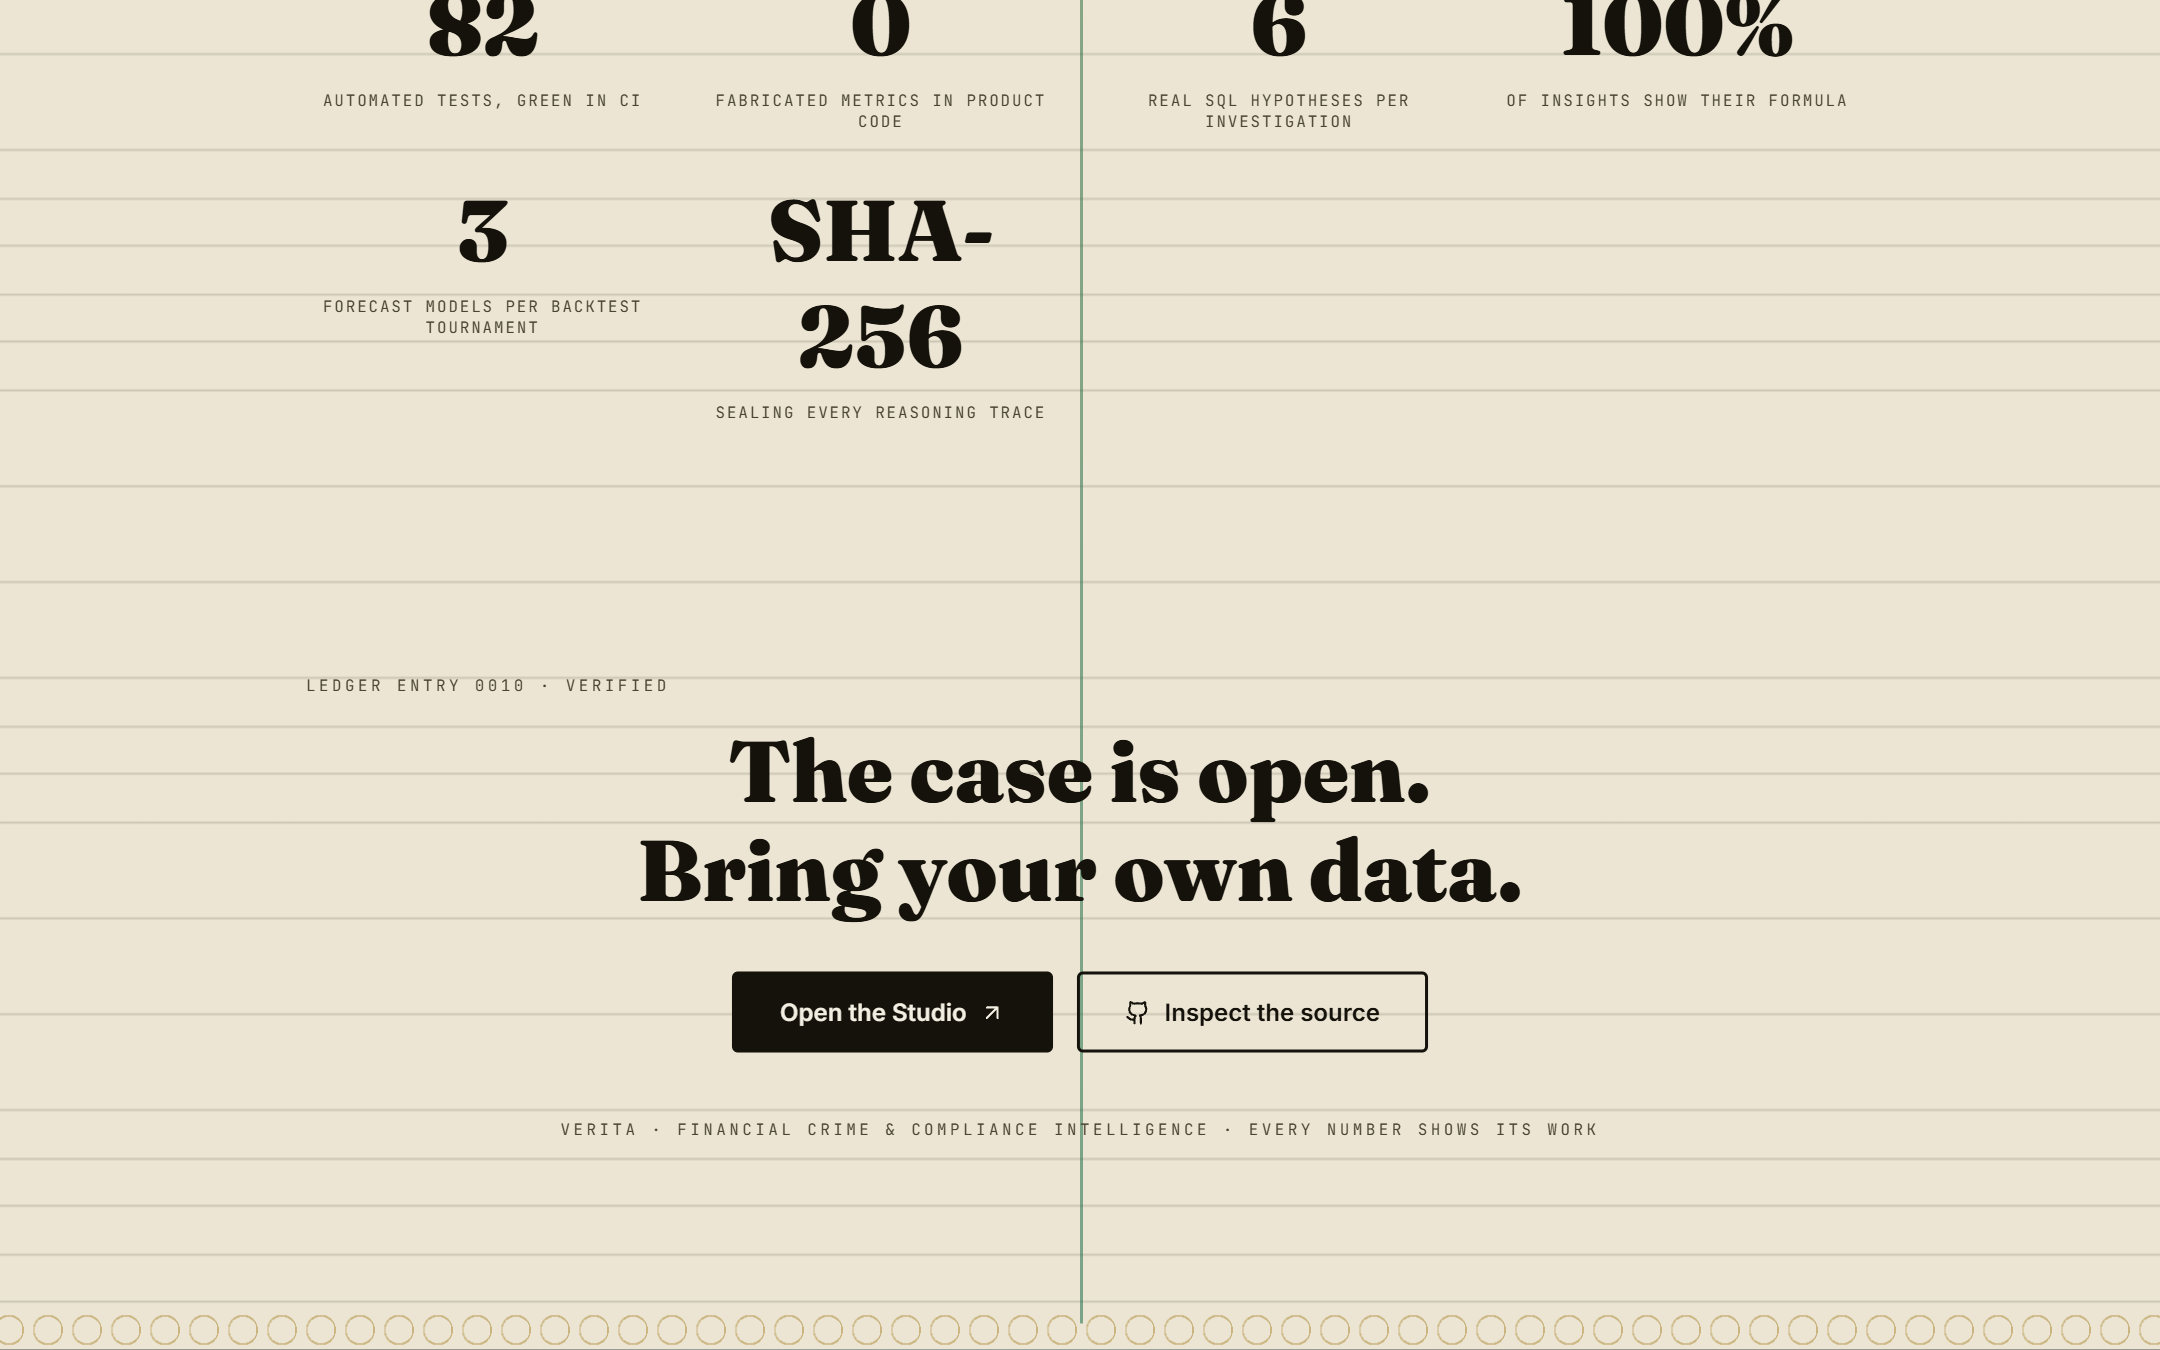
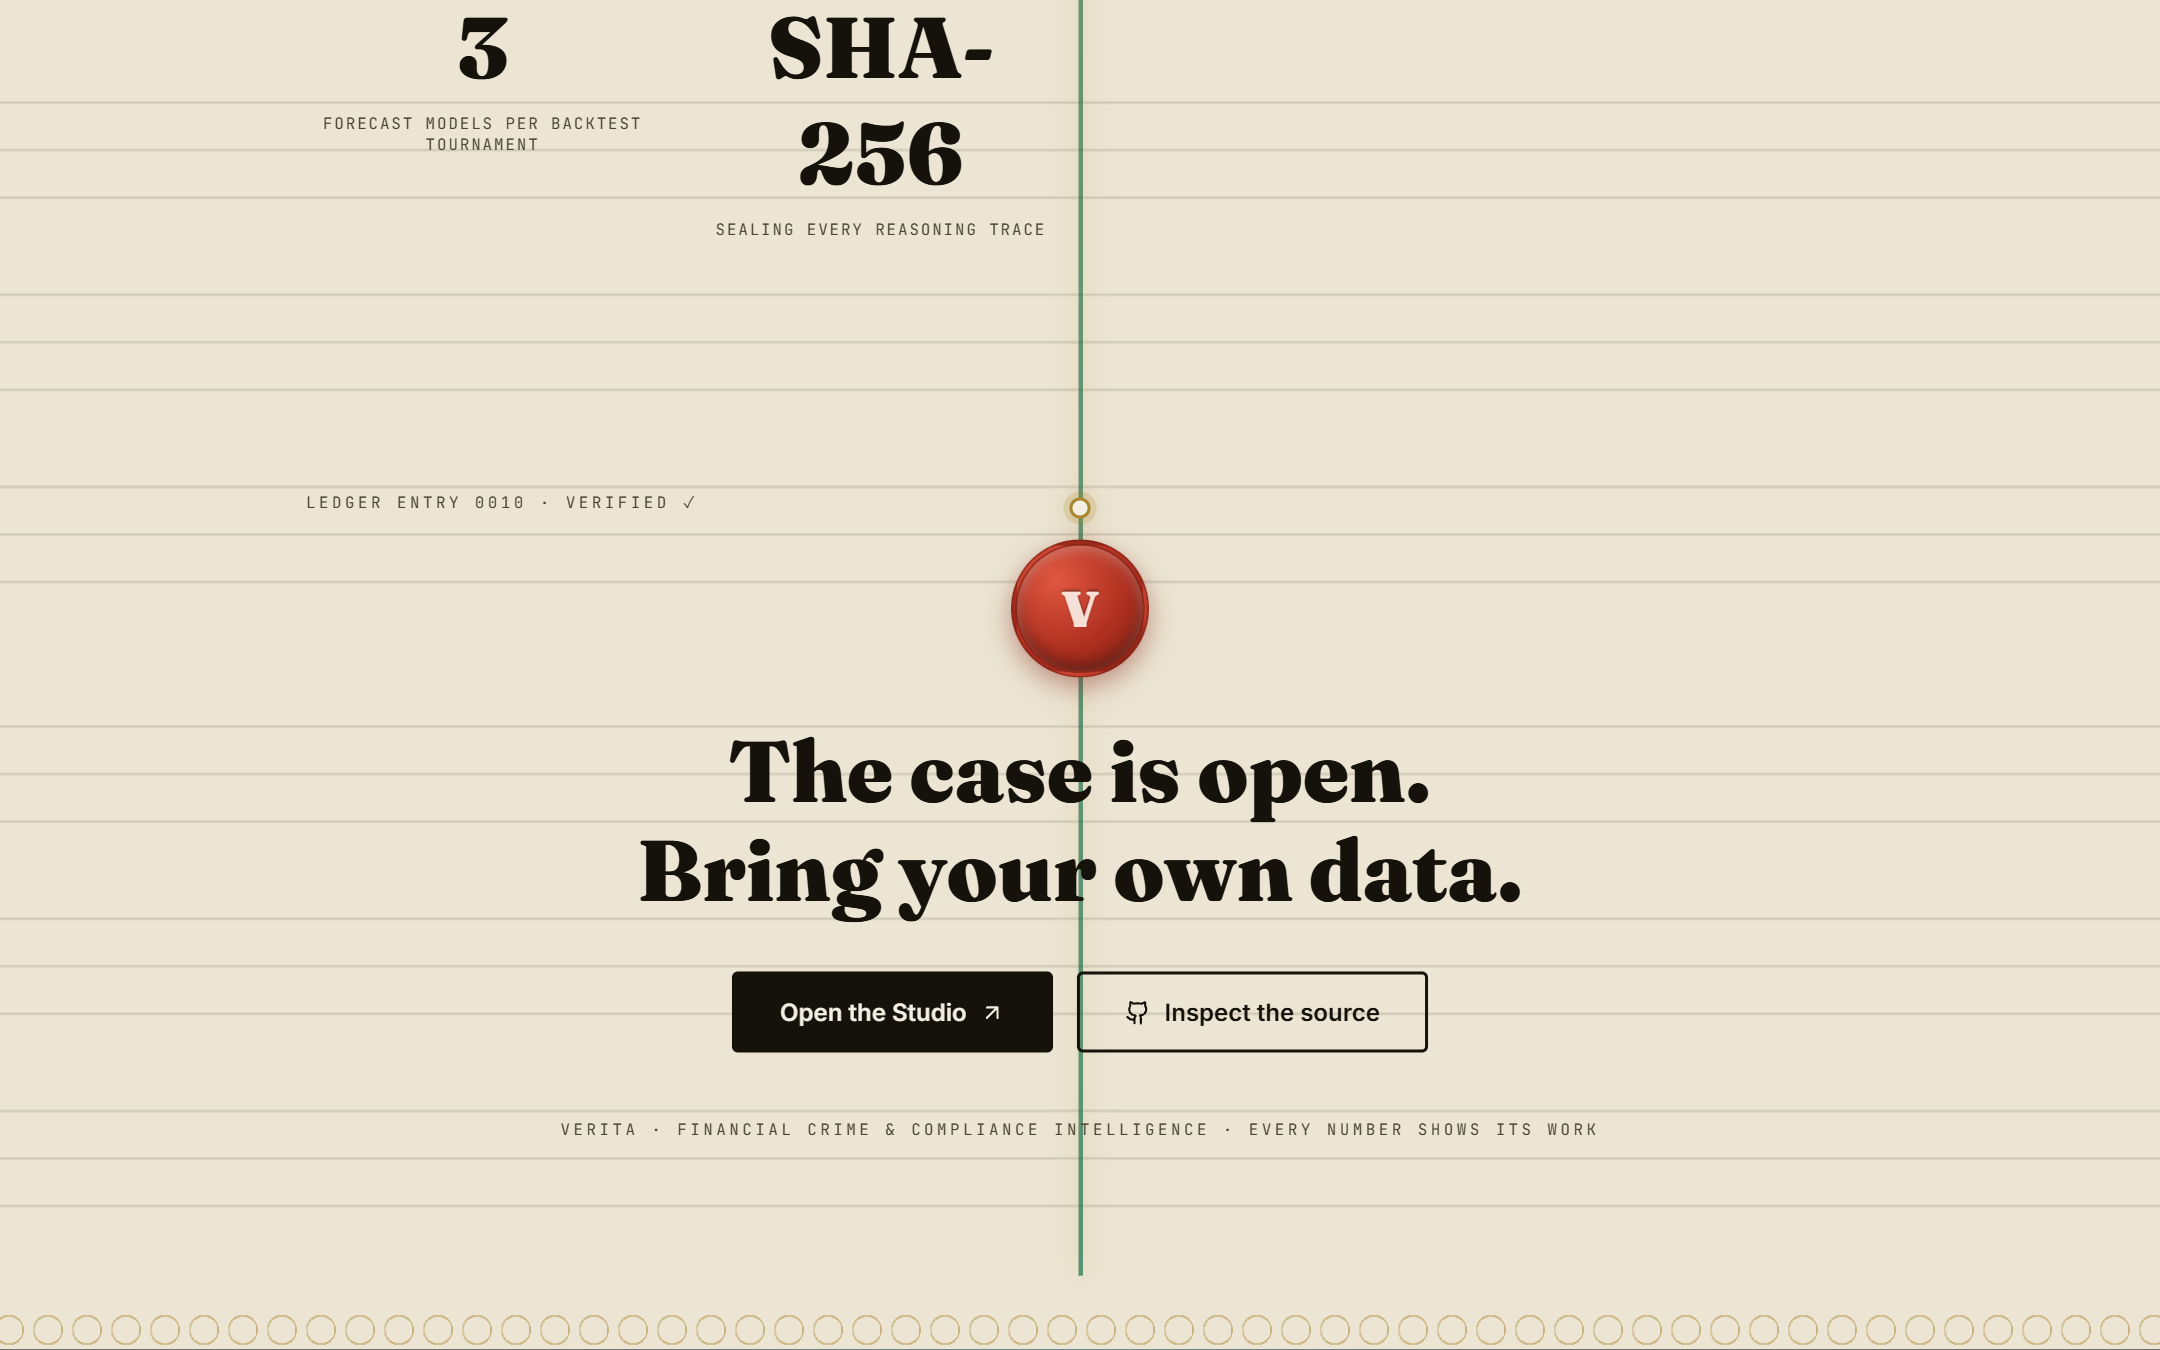
feat: ledger creativity pass — torn edge, stamp slams, sealing chain, wax seal
Seven creative upgrades to the Forensic Ledger landing: (1) torn-paper edge where the dark hero rips open into the ledger; (2) rubber stamps now SLAM in with a spring scale+rotate when scrolled into view; (3) chain link-nodes on the spine that seal gold as each entry verifies, with labels flipping PENDING -> VERIFIED; (4) thicker glowing chain thread; (5) banknote microtext security strips as section dividers; (6) faint fingerprint watermark behind the manifesto; (7) red wax seal 'V' (spring-stamped) on the closing CTA. Plus a hero scroll cue ('Scroll - the case file opens') so visitors discover Act II. All verified in browser: 10/10 nodes seal, zero console errors, tsc clean.

diff --git a/frontend/src/sections/LedgerSections.tsx b/frontend/src/sections/LedgerSections.tsx
@@ -5,8 +5,8 @@ import { ArrowUpRight, Github } from "lucide-react";
 
 /* ════════════════════════════════════════════════════════════════════
    FORENSIC LEDGER — the scroll story. The page itself behaves like a
-   hash chain: a thread draws down the spine as you scroll, linking each
-   section ("block"), and every section carries its ledger entry no.
+   hash chain: a thread draws down the spine, and each section is a
+   "block" whose chain-node seals gold as it verifies into view.
    ════════════════════════════════════════════════════════════════════ */
 
 const EXHIBITS = [
@@ -55,6 +55,27 @@ const NUMBERS = [
   { v: "SHA-256", k: "sealing every reasoning trace" },
 ];
 
+const MICROTEXT = Array(14).fill("VERITA · EVERY NUMBER SHOWS ITS WORK ·").join(" ");
+
+/* Rubber stamp that SLAMS in when scrolled into view. */
+function Stamp({ children, green, style }: { children: React.ReactNode; green?: boolean; style?: React.CSSProperties }) {
+  const ref = useRef<HTMLSpanElement>(null);
+  const inView = useInView(ref, { once: true, margin: "-60px" });
+  return (
+    <motion.span
+      ref={ref}
+      className={`stamp ${green ? "stamp--green" : ""}`}
+      style={{ display: "inline-block", ...style }}
+      initial={{ opacity: 0, scale: 2.6, rotate: green ? 14 : -16 }}
+      animate={inView ? { opacity: 1, scale: 1, rotate: green ? 3 : -4 } : {}}
+      transition={{ type: "spring", stiffness: 420, damping: 16, mass: 0.9 }}
+    >
+      {children}
+    </motion.span>
+  );
+}
+
+/* A ledger entry = one "block" in the chain; its node seals gold when verified. */
 function Entry({ no, children }: { no: string; children: React.ReactNode }) {
   const ref = useRef<HTMLDivElement>(null);
   const inView = useInView(ref, { once: true, margin: "-80px" });
@@ -62,7 +83,10 @@ function Entry({ no, children }: { no: string; children: React.ReactNode }) {
     <motion.div ref={ref} initial={{ opacity: 0, y: 36 }} animate={inView ? { opacity: 1, y: 0 } : {}}
       transition={{ duration: 0.7, ease: [0.22, 1, 0.36, 1] }}
       style={{ position: "relative", padding: "84px 24px", maxWidth: 1080, margin: "0 auto" }}>
-      <div className="ledger-label" style={{ marginBottom: 18 }}>LEDGER ENTRY {no} · VERIFIED</div>
+      <div className={`chain-node ${inView ? "sealed" : ""}`} aria-hidden />
+      <div className="ledger-label" style={{ marginBottom: 18 }}>
+        LEDGER ENTRY {no} · {inView ? "VERIFIED ✓" : "PENDING"}
+      </div>
       {children}
     </motion.div>
   );
@@ -74,6 +98,20 @@ function Redacted({ children }: { children: string }) {
   return <span ref={ref} className={`redact ${inView ? "lifted" : ""}`}>{children}</span>;
 }
 
+/* Faint fingerprint watermark (concentric arcs). */
+function Fingerprint() {
+  return (
+    <svg className="fingerprint" width="380" height="380" viewBox="0 0 380 380" aria-hidden>
+      {Array.from({ length: 13 }, (_, i) => (
+        <ellipse key={i} cx="190" cy="190" rx={20 + i * 13} ry={26 + i * 12}
+          fill="none" stroke="var(--ink)" strokeWidth="3.5"
+          strokeDasharray={`${40 + i * 22} ${12 + (i % 4) * 9}`}
+          transform={`rotate(${i * 7} 190 190)`} />
+      ))}
+    </svg>
+  );
+}
+
 export default function LedgerSections() {
   const navigate = useNavigate();
   const wrapRef = useRef<HTMLDivElement>(null);
@@ -81,19 +119,21 @@ export default function LedgerSections() {
   const thread = useSpring(scrollYProgress, { stiffness: 90, damping: 26 });
 
   return (
-    <div ref={wrapRef} className="ledger" style={{ position: "relative", zIndex: 3 }}>
+    <div ref={wrapRef} className="ledger torn-edge" style={{ position: "relative", zIndex: 3 }}>
       <div className="guilloche" />
 
       {/* the chain thread — draws down the spine as you scroll */}
       <motion.div aria-hidden style={{
-        position: "absolute", left: "50%", top: 0, bottom: 0, width: 2, transformOrigin: "top",
-        scaleY: thread, background: "linear-gradient(180deg, var(--foil-gold), var(--seal-green))", opacity: 0.55,
+        position: "absolute", left: "50%", top: 0, bottom: 0, width: 3, transformOrigin: "top",
+        scaleY: thread, marginLeft: -1.5,
+        background: "linear-gradient(180deg, var(--foil-gold), var(--seal-green))",
+        boxShadow: "0 0 14px rgba(168,132,44,0.5)", opacity: 0.7,
       }} />
 
       {/* §1 THE PROBLEM */}
       <Entry no="0001">
         <div style={{ textAlign: "center" }}>
-          <span className="stamp" style={{ fontSize: "0.7rem" }}>CASE FILE · VERITA</span>
+          <Stamp style={{ fontSize: "0.7rem" }}>CASE FILE · VERITA</Stamp>
           <h2 style={{ fontFamily: "var(--font-serif)", fontWeight: 900, fontSize: "clamp(2.2rem, 5.4vw, 4.4rem)", lineHeight: 1.12, marginTop: 26 }}>
             AI you can't <Redacted>audit</Redacted><br />is AI you can't <Redacted>use</Redacted>.
           </h2>
@@ -105,18 +145,21 @@ export default function LedgerSections() {
         </div>
       </Entry>
 
+      <div className="microtext">{MICROTEXT}</div>
+
       {/* §2 THE MANIFESTO */}
       <Entry no="0002">
-        <div style={{ borderTop: "3px solid var(--ink)", borderBottom: "3px solid var(--ink)", padding: "56px 8px", textAlign: "center" }}>
+        <div style={{ position: "relative", overflow: "hidden", borderTop: "3px solid var(--ink)", borderBottom: "3px solid var(--ink)", padding: "56px 8px", textAlign: "center" }}>
+          <Fingerprint />
           <div className="ledger-label" style={{ marginBottom: 16 }}>THE GLASS-BOX PRINCIPLE</div>
-          <h2 style={{ fontFamily: "var(--font-serif)", fontWeight: 700, fontStyle: "italic", fontSize: "clamp(1.6rem, 3.6vw, 2.7rem)", lineHeight: 1.35, maxWidth: 880, margin: "0 auto" }}>
+          <h2 style={{ fontFamily: "var(--font-serif)", fontWeight: 700, fontStyle: "italic", fontSize: "clamp(1.6rem, 3.6vw, 2.7rem)", lineHeight: 1.35, maxWidth: 880, margin: "0 auto", position: "relative" }}>
             "Every number shows its formula. Every forecast shows its backtest.
             Every agent decision shows its query — and the whole trace is sealed
             in a tamper-evident chain."
           </h2>
           <div style={{ marginTop: 28, display: "flex", gap: 14, justifyContent: "center", flexWrap: "wrap" }}>
-            <span className="stamp stamp--green" style={{ fontSize: "0.66rem" }}>NO BLACK BOXES</span>
-            <span className="stamp" style={{ fontSize: "0.66rem" }}>NO FABRICATED METRICS</span>
+            <Stamp green style={{ fontSize: "0.66rem" }}>NO BLACK BOXES</Stamp>
+            <Stamp style={{ fontSize: "0.66rem" }}>NO FABRICATED METRICS</Stamp>
           </div>
         </div>
       </Entry>
@@ -125,14 +168,15 @@ export default function LedgerSections() {
       {EXHIBITS.map((ex, i) => (
         <Entry key={ex.tag} no={`000${i + 3}`}>
           <div style={{ display: "flex", gap: 44, alignItems: "center", flexWrap: "wrap", flexDirection: i % 2 ? "row-reverse" : "row" }}>
-            <div className="exhibit-frame" style={{ flex: "1 1 440px", minWidth: 300, transform: `rotate(${i % 2 ? 1.2 : -1.2}deg)` }}>
+            <motion.div whileHover={{ rotate: 0, scale: 1.015 }} className="exhibit-frame"
+              style={{ flex: "1 1 440px", minWidth: 300, rotate: i % 2 ? 1.2 : -1.2 }}>
               <img src={ex.img} alt={ex.title} loading="lazy" />
               <div className="ledger-label" style={{ paddingTop: 9, display: "flex", justifyContent: "space-between" }}>
                 <span>{ex.tag}</span><span>VERITA / {String(i + 1).padStart(2, "0")}</span>
               </div>
-            </div>
+            </motion.div>
             <div style={{ flex: "1 1 340px", minWidth: 280 }}>
-              <span className={`stamp ${ex.green ? "stamp--green" : ""}`} style={{ fontSize: "0.62rem" }}>{ex.stamp}</span>
+              <Stamp green={ex.green} style={{ fontSize: "0.62rem" }}>{ex.stamp}</Stamp>
               <h3 style={{ fontFamily: "var(--font-serif)", fontWeight: 900, fontSize: "clamp(1.7rem, 3vw, 2.4rem)", lineHeight: 1.15, margin: "16px 0 14px" }}>{ex.title}</h3>
               <p style={{ fontSize: "1rem", lineHeight: 1.75, color: "var(--ink-soft)" }}>{ex.body}</p>
             </div>
@@ -140,10 +184,12 @@ export default function LedgerSections() {
         </Entry>
       ))}
 
+      <div className="microtext">{MICROTEXT}</div>
+
       {/* §4 THE PIPELINE */}
       <Entry no="0008">
         <div style={{ textAlign: "center", marginBottom: 40 }}>
-          <span className="stamp stamp--green" style={{ fontSize: "0.66rem" }}>CHAIN OF CUSTODY</span>
+          <Stamp green style={{ fontSize: "0.66rem" }}>CHAIN OF CUSTODY</Stamp>
           <h2 style={{ fontFamily: "var(--font-serif)", fontWeight: 900, fontSize: "clamp(2rem, 4.4vw, 3.4rem)", marginTop: 18 }}>
             How a file becomes evidence
           </h2>
@@ -174,9 +220,14 @@ export default function LedgerSections() {
         </div>
       </Entry>
 
-      {/* §6 CLOSING / CTA */}
+      {/* §6 CLOSING / CTA — sealed in wax */}
       <Entry no="0010">
         <div style={{ textAlign: "center", paddingBottom: 30 }}>
+          <motion.div initial={{ opacity: 0, scale: 2.2 }} whileInView={{ opacity: 1, scale: 1 }}
+            viewport={{ once: true, margin: "-60px" }} transition={{ type: "spring", stiffness: 320, damping: 18 }}
+            className="wax-seal" style={{ marginBottom: 30 }}>
+            V
+          </motion.div>
           <h2 style={{ fontFamily: "var(--font-serif)", fontWeight: 900, fontSize: "clamp(2rem, 4.6vw, 3.6rem)", lineHeight: 1.15 }}>
             The case is open.<br />Bring your own data.
           </h2>

diff --git a/frontend/src/index.css b/frontend/src/index.css
@@ -259,6 +259,84 @@ body {
   color: var(--ink-soft);
 }
 
+/* torn-paper top edge — the dark world rips open into the ledger */
+.torn-edge {
+  clip-path: polygon(
+    0 18px, 3% 6px, 7% 16px, 11% 4px, 16% 14px, 21% 2px, 26% 12px, 31% 5px,
+    36% 15px, 41% 3px, 46% 13px, 51% 6px, 56% 16px, 61% 2px, 66% 11px, 71% 4px,
+    76% 14px, 81% 3px, 86% 12px, 91% 5px, 96% 15px, 100% 8px,
+    100% 100%, 0 100%
+  );
+  margin-top: -18px;
+}
+
+/* banknote microtext security strip */
+.microtext {
+  overflow: hidden;
+  white-space: nowrap;
+  font-family: var(--font-mono);
+  font-size: 0.5rem;
+  letter-spacing: 0.32em;
+  color: var(--foil-gold);
+  opacity: 0.65;
+  user-select: none;
+  text-align: center;
+  padding: 6px 0;
+  border-top: 1px solid rgba(168, 132, 44, 0.35);
+  border-bottom: 1px solid rgba(168, 132, 44, 0.35);
+}
+
+/* chain link node on the spine — seals gold when its entry verifies */
+.chain-node {
+  position: absolute;
+  left: 50%;
+  top: 88px;
+  transform: translateX(-50%);
+  width: 14px;
+  height: 14px;
+  border-radius: 50%;
+  border: 2.5px solid var(--ledger-line);
+  background: var(--paper);
+  z-index: 2;
+  transition: border-color 0.6s, box-shadow 0.6s;
+}
+.chain-node.sealed {
+  border-color: var(--foil-gold);
+  box-shadow: 0 0 0 4px rgba(168, 132, 44, 0.18), 0 0 18px rgba(168, 132, 44, 0.45);
+}
+
+/* wax seal (closing section) */
+.wax-seal {
+  width: 92px;
+  height: 92px;
+  border-radius: 50%;
+  margin: 0 auto;
+  display: grid;
+  place-items: center;
+  background:
+    radial-gradient(circle at 32% 28%, #e0573f, #b03020 55%, #7e1f13 100%);
+  box-shadow:
+    inset 0 3px 8px rgba(255, 255, 255, 0.28),
+    inset 0 -5px 10px rgba(0, 0, 0, 0.35),
+    0 6px 18px rgba(126, 31, 19, 0.45);
+  font-family: var(--font-serif);
+  font-weight: 900;
+  font-size: 2.1rem;
+  color: rgba(255, 240, 230, 0.92);
+  text-shadow: 0 -1px 2px rgba(0, 0, 0, 0.4);
+  border: 4px double rgba(126, 31, 19, 0.65);
+}
+
+/* fingerprint watermark (manifesto backdrop) */
+.fingerprint {
+  position: absolute;
+  right: -40px;
+  top: 50%;
+  transform: translateY(-50%) rotate(12deg);
+  opacity: 0.07;
+  pointer-events: none;
+}
+
 /* exhibit photo frame (evidence photograph) */
 .exhibit-frame {
   background: #fffdf6;

diff --git a/frontend/src/sections/Hero.tsx b/frontend/src/sections/Hero.tsx
@@ -258,6 +258,29 @@ export default function Hero() {
         </motion.div>
       </motion.div>
 
+      {/* Scroll cue — the case file opens below */}
+      <motion.div
+        initial={{ opacity: 0 }}
+        animate={{ opacity: 1 }}
+        transition={{ delay: 2.2, duration: 0.8 }}
+        style={{
+          position: "absolute", bottom: 64, left: 0, right: 0,
+          display: "flex", flexDirection: "column", alignItems: "center", gap: 6,
+          pointerEvents: "none", zIndex: 3,
+        }}
+      >
+        <span style={{ fontFamily: "var(--font-mono)", fontSize: "0.6rem", letterSpacing: "0.26em", textTransform: "uppercase", color: "var(--text-muted)" }}>
+          Scroll — the case file opens
+        </span>
+        <motion.span
+          animate={{ y: [0, 7, 0] }}
+          transition={{ duration: 1.6, repeat: Infinity, ease: "easeInOut" }}
+          style={{ color: "var(--cyan, #22d3ee)", fontSize: "1rem", lineHeight: 1 }}
+        >
+          ▾
+        </motion.span>
+      </motion.div>
+
       {/* Marquee trust strip */}
       <div
         style={{
